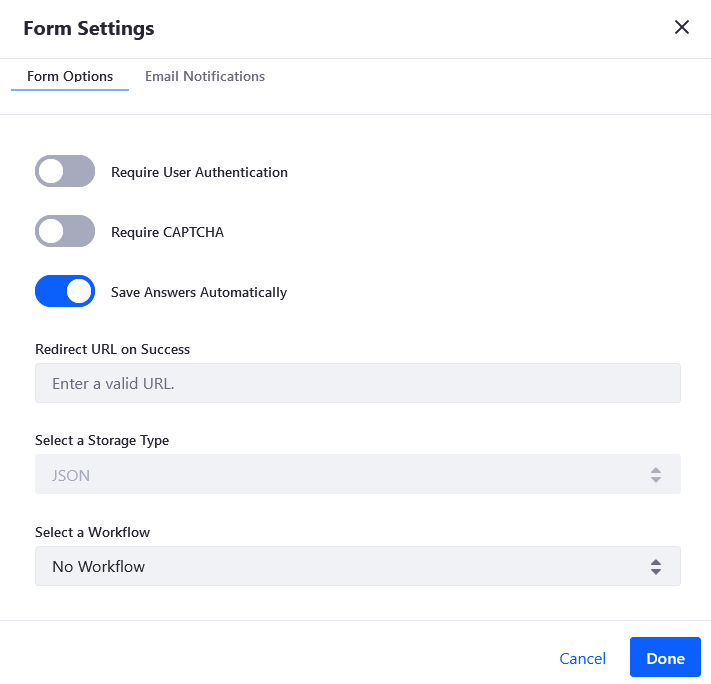
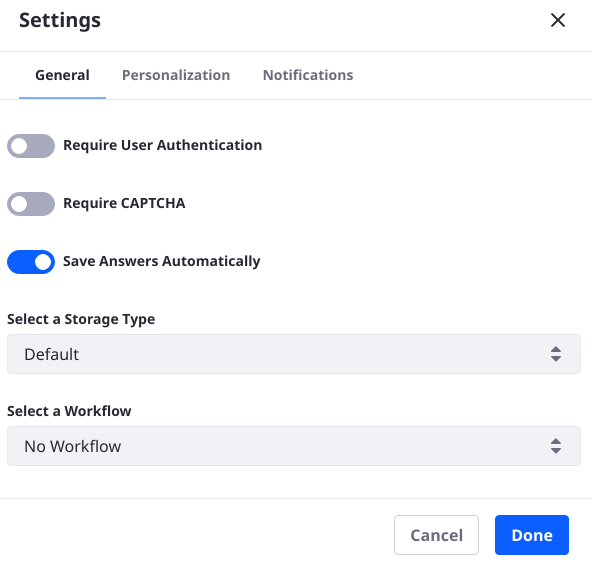
LRDOCS-9398 SME review edits

diff --git a/docs/dxp/latest/en/process-automation/forms/creating-and-managing-forms/forms-configuration-reference.md b/docs/dxp/latest/en/process-automation/forms/creating-and-managing-forms/forms-configuration-reference.md
@@ -25,7 +25,7 @@ To access the Settings menu, choose the desired form (for example, _Guest Survey
 | General | Require User Authentication | Requires sign in before submitting the form |
 | General | CAPTCHA | Requires answering CAPTCHA questions when submitting the form |
 | General | Save Answers Automatically | Saves answers to the form automatically |
-| General | Select a Storage Type | Sets the [storage adapter](../developer-guide/understanding-form-storage-adapters.md) for submitted records; not editable. |
+| General | Select a Storage Type | Sets the [storage adapter](../developer-guide/understanding-form-storage-adapters.md) for managing submitted records; not editable after the form is saved. |
 | General | Select a [Workflow](./advanced-forms-usage/using-forms-with-a-workflow.md) | Select a workflow definition to review the form submission; workflow is deactivated by default. |
 | Personalization | Redirect URL on Success | Specifies a redirect URL once the form is submitted successfully. |
 | Personalization | Submit Button Label | Changes the label of the Submit button to something more appropriate for your specific use case (e.g, _Vote_ or _Register_). |

diff --git a/docs/dxp/latest/en/process-automation/forms/creating-and-managing-forms/using-storage-adapters.md b/docs/dxp/latest/en/process-automation/forms/creating-and-managing-forms/using-storage-adapters.md
@@ -24,6 +24,6 @@ You cannot change the storage adapter after a form has been saved. All existing 
 
 | Storage Type | Description | Liferay Version |
 | ------------ | ----------- | --------------- |
-| Default      | Use the Default adapter to store the form's records in JSON in the Liferay Forms database tables. | 7.4+ |
+| Default      | Use the default adapter to store the form's records in the Liferay Forms database tables. | 7.4+ |
 | Object       | Use the Object adapter to map the form's records to a Liferay Object. After choosing this option you must select an existing Liferay Object and map the form's fields to the Object's fields. The form record data is stored in JSON in the Object's dedicated database table. | 7.4+ |
 | JSON | Use the JSON adapter in Liferay 7.2 and 7.3 to store the form's records in JSON in the Liferay Forms database tables. | 7.2 and 7.3 |

diff --git a/docs/dxp/latest/en/process-automation/forms/sharing-forms-and-managing-submissions/configuring-form-notifications.md b/docs/dxp/latest/en/process-automation/forms/sharing-forms-and-managing-submissions/configuring-form-notifications.md
@@ -22,7 +22,7 @@ To configure Form email notifications:
 
     **From Address:** The sender's email address. You can use `noreply@example.com`, so that recipients don't try to reply.
 
-    **To Address:** The recipient's email address (e.g., `test@example.com`).
+    **To Address:** The recipient's email address (e.g., `test@example.com`). Enter multiple To Addresses using a comma-separated list.
 
     **Subject:** The email's subject.
 
